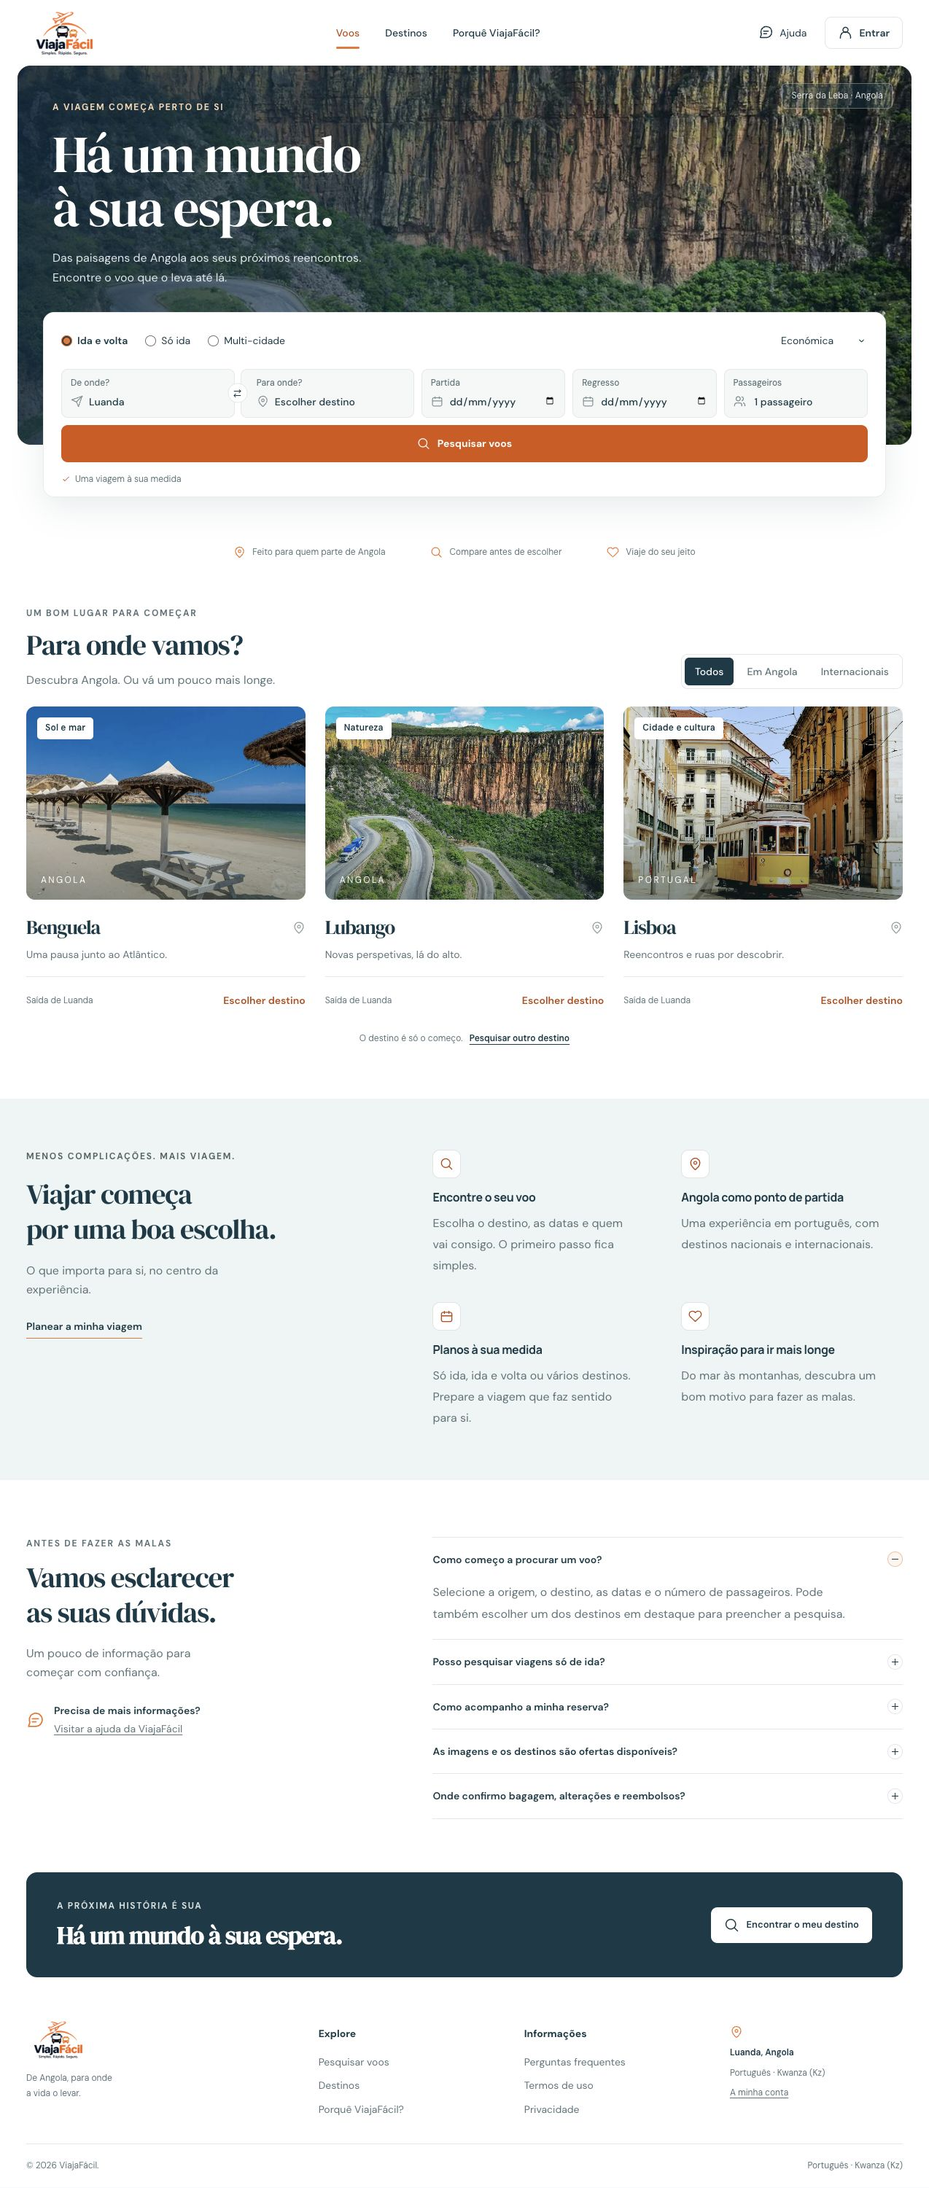
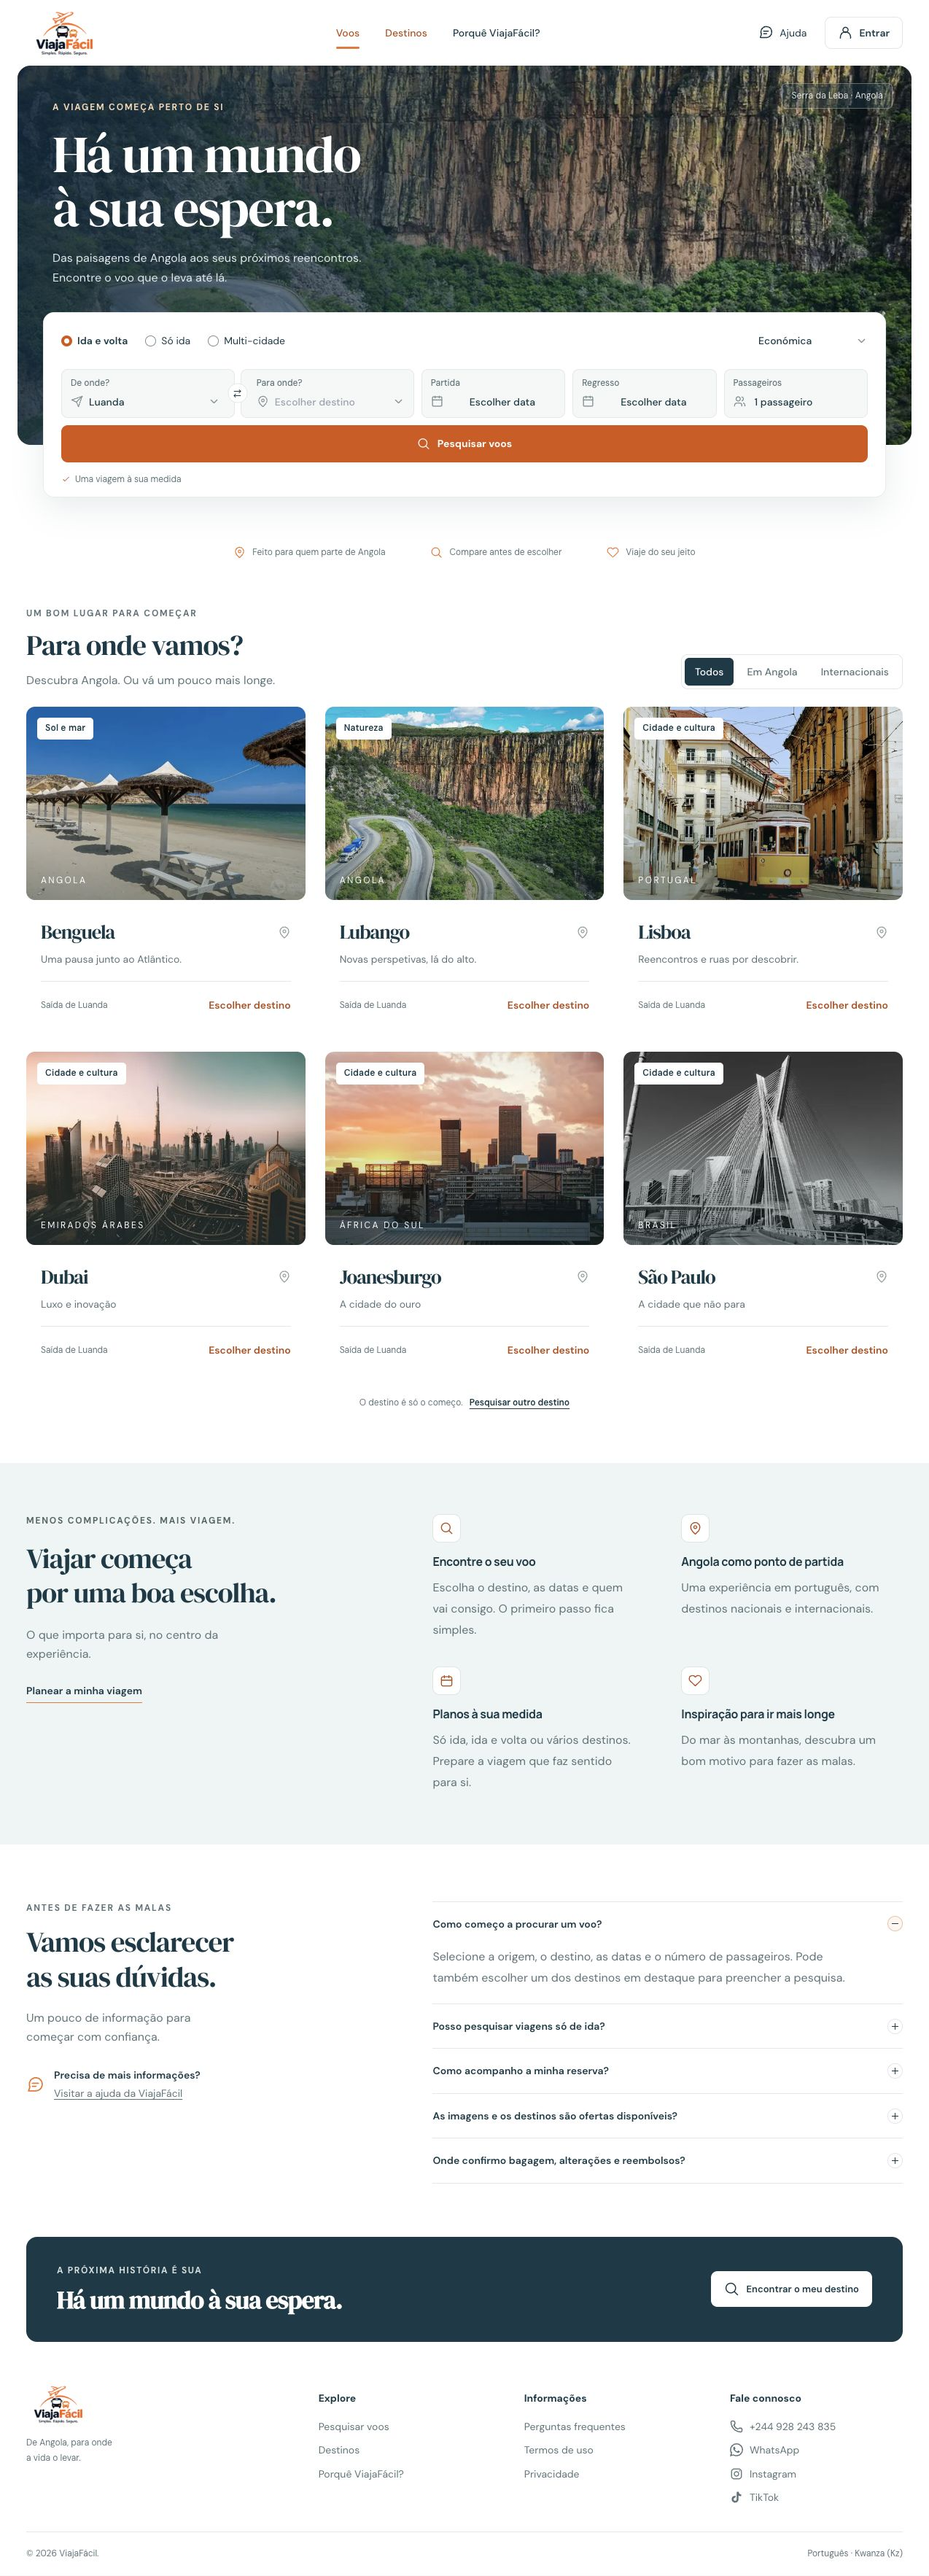
fix: add breathing room to destination card content

diff --git a/src/app/horizonte.css b/src/app/horizonte.css
@@ -1971,7 +1971,7 @@
     border-radius: 12px;
   }
   & .destination-content {
-    padding: 16px 0 0;
+    padding: 22px 20px 20px;
   }
   & .benefits-section {
     background: #eef4f4;
